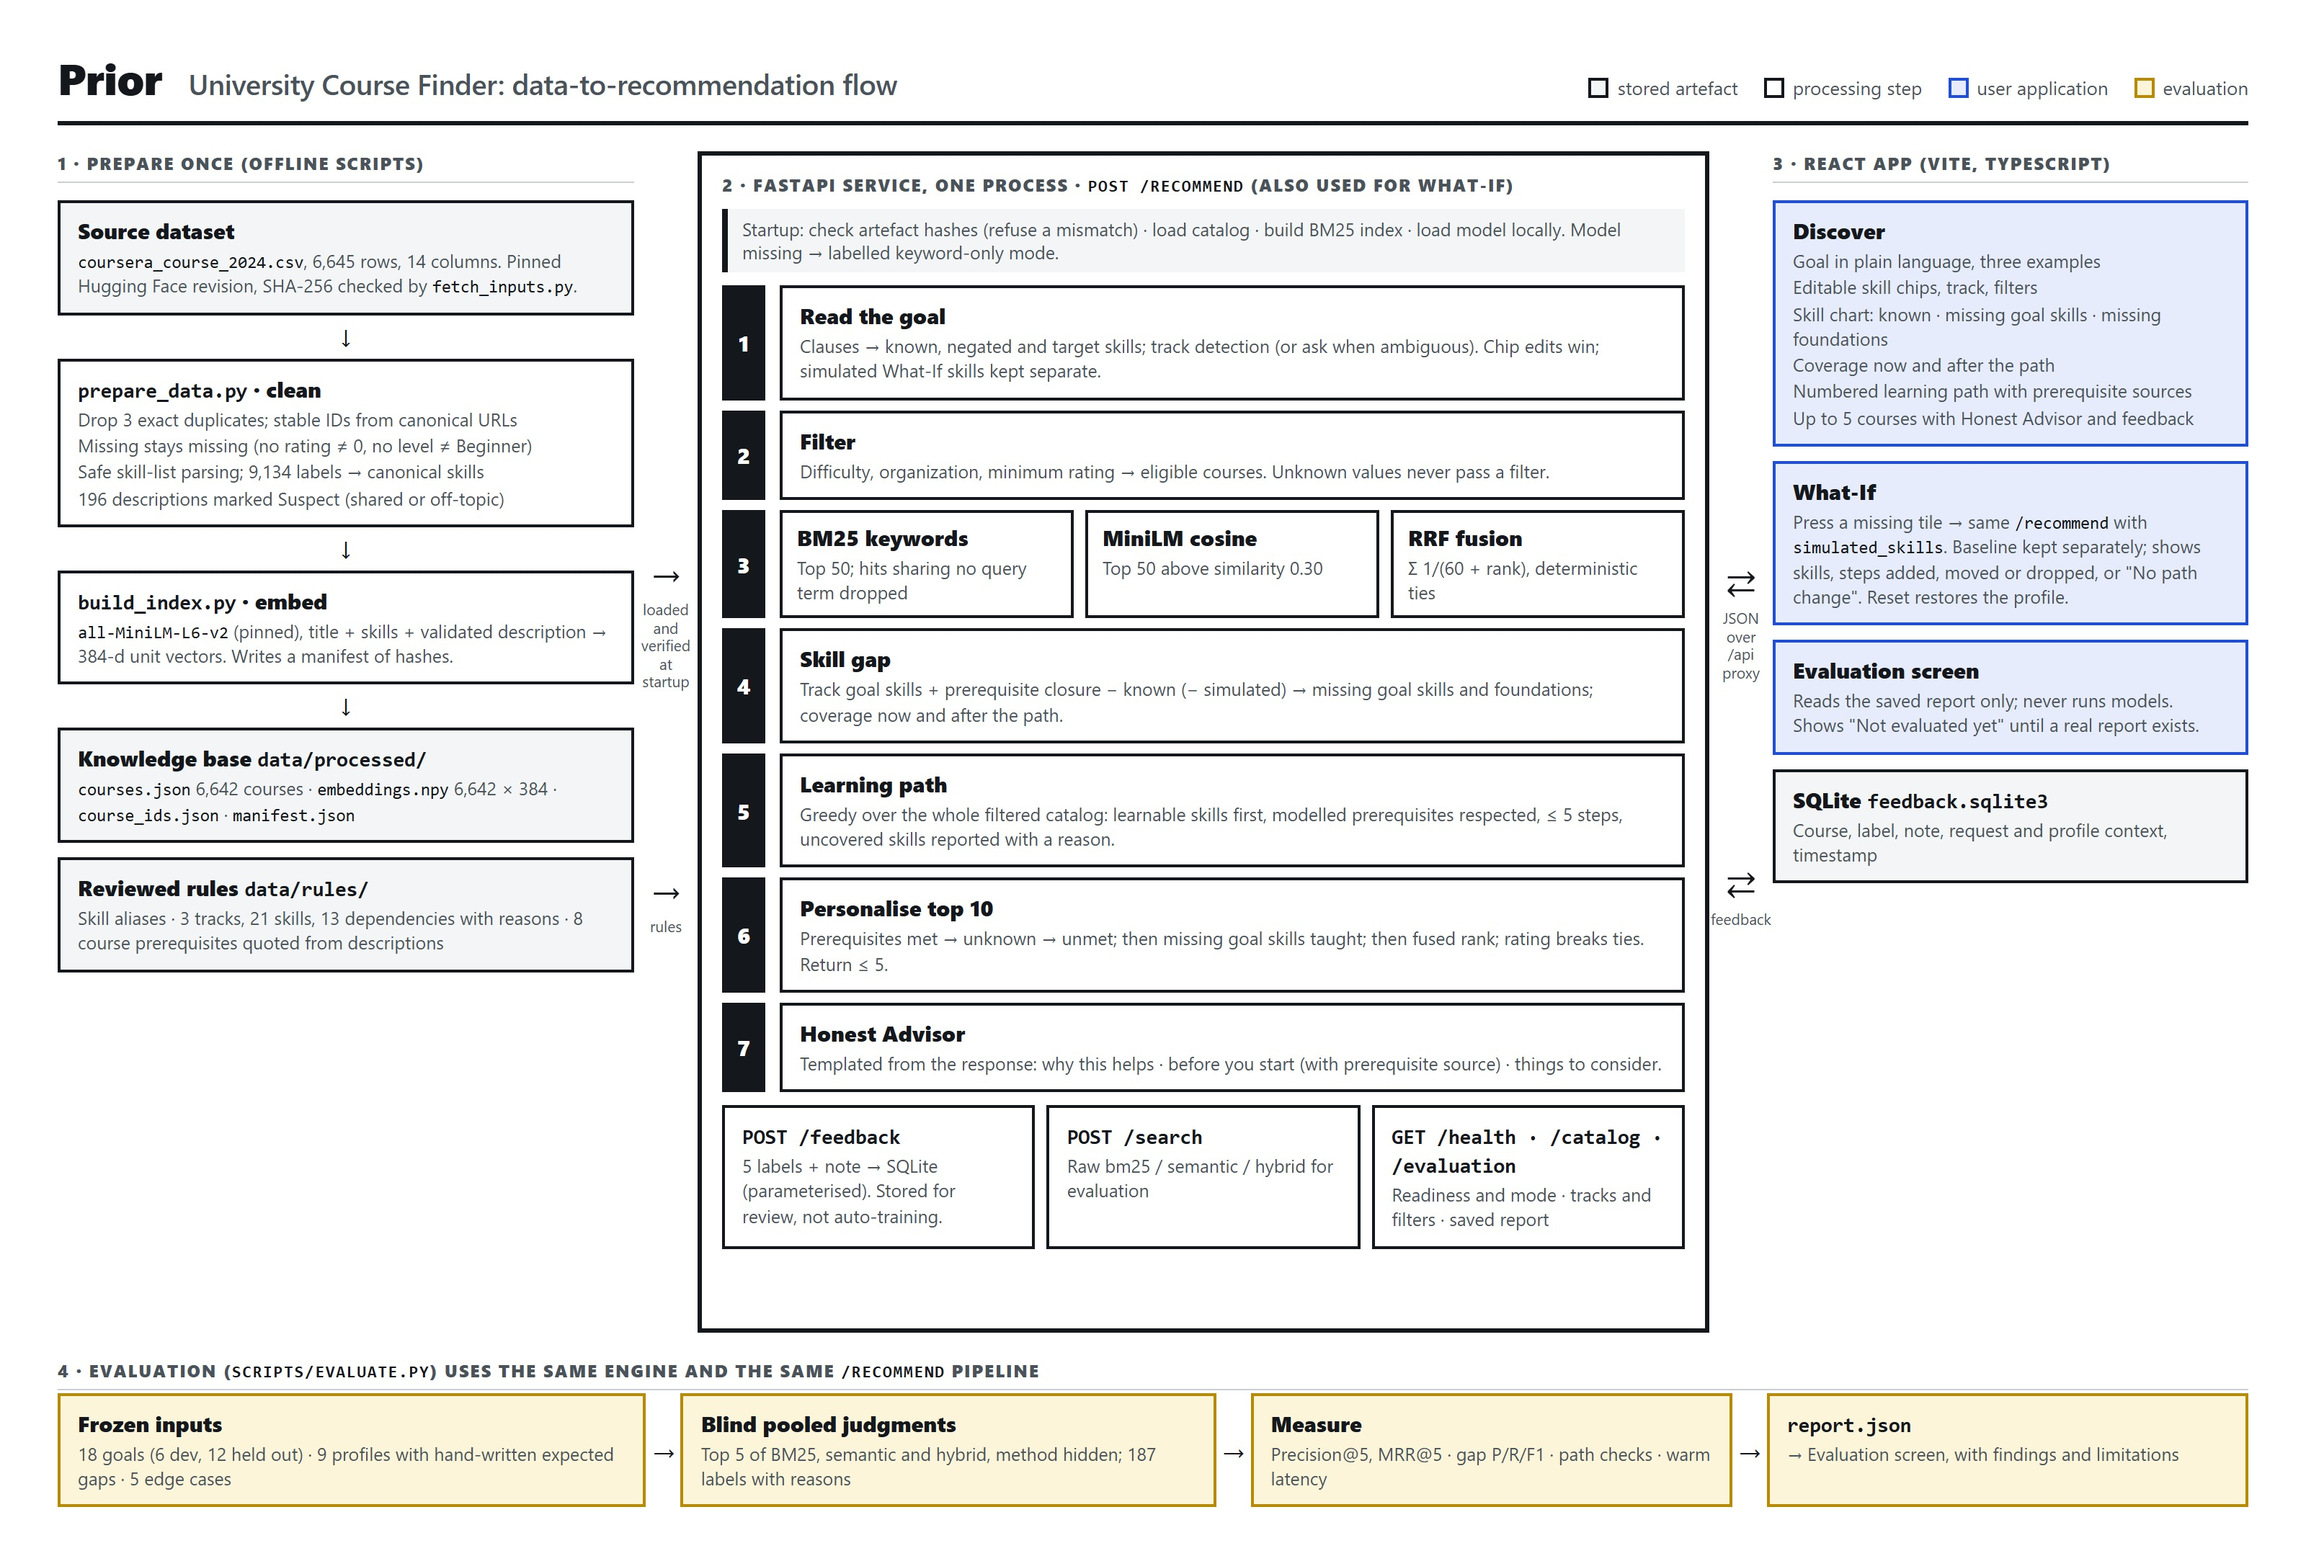
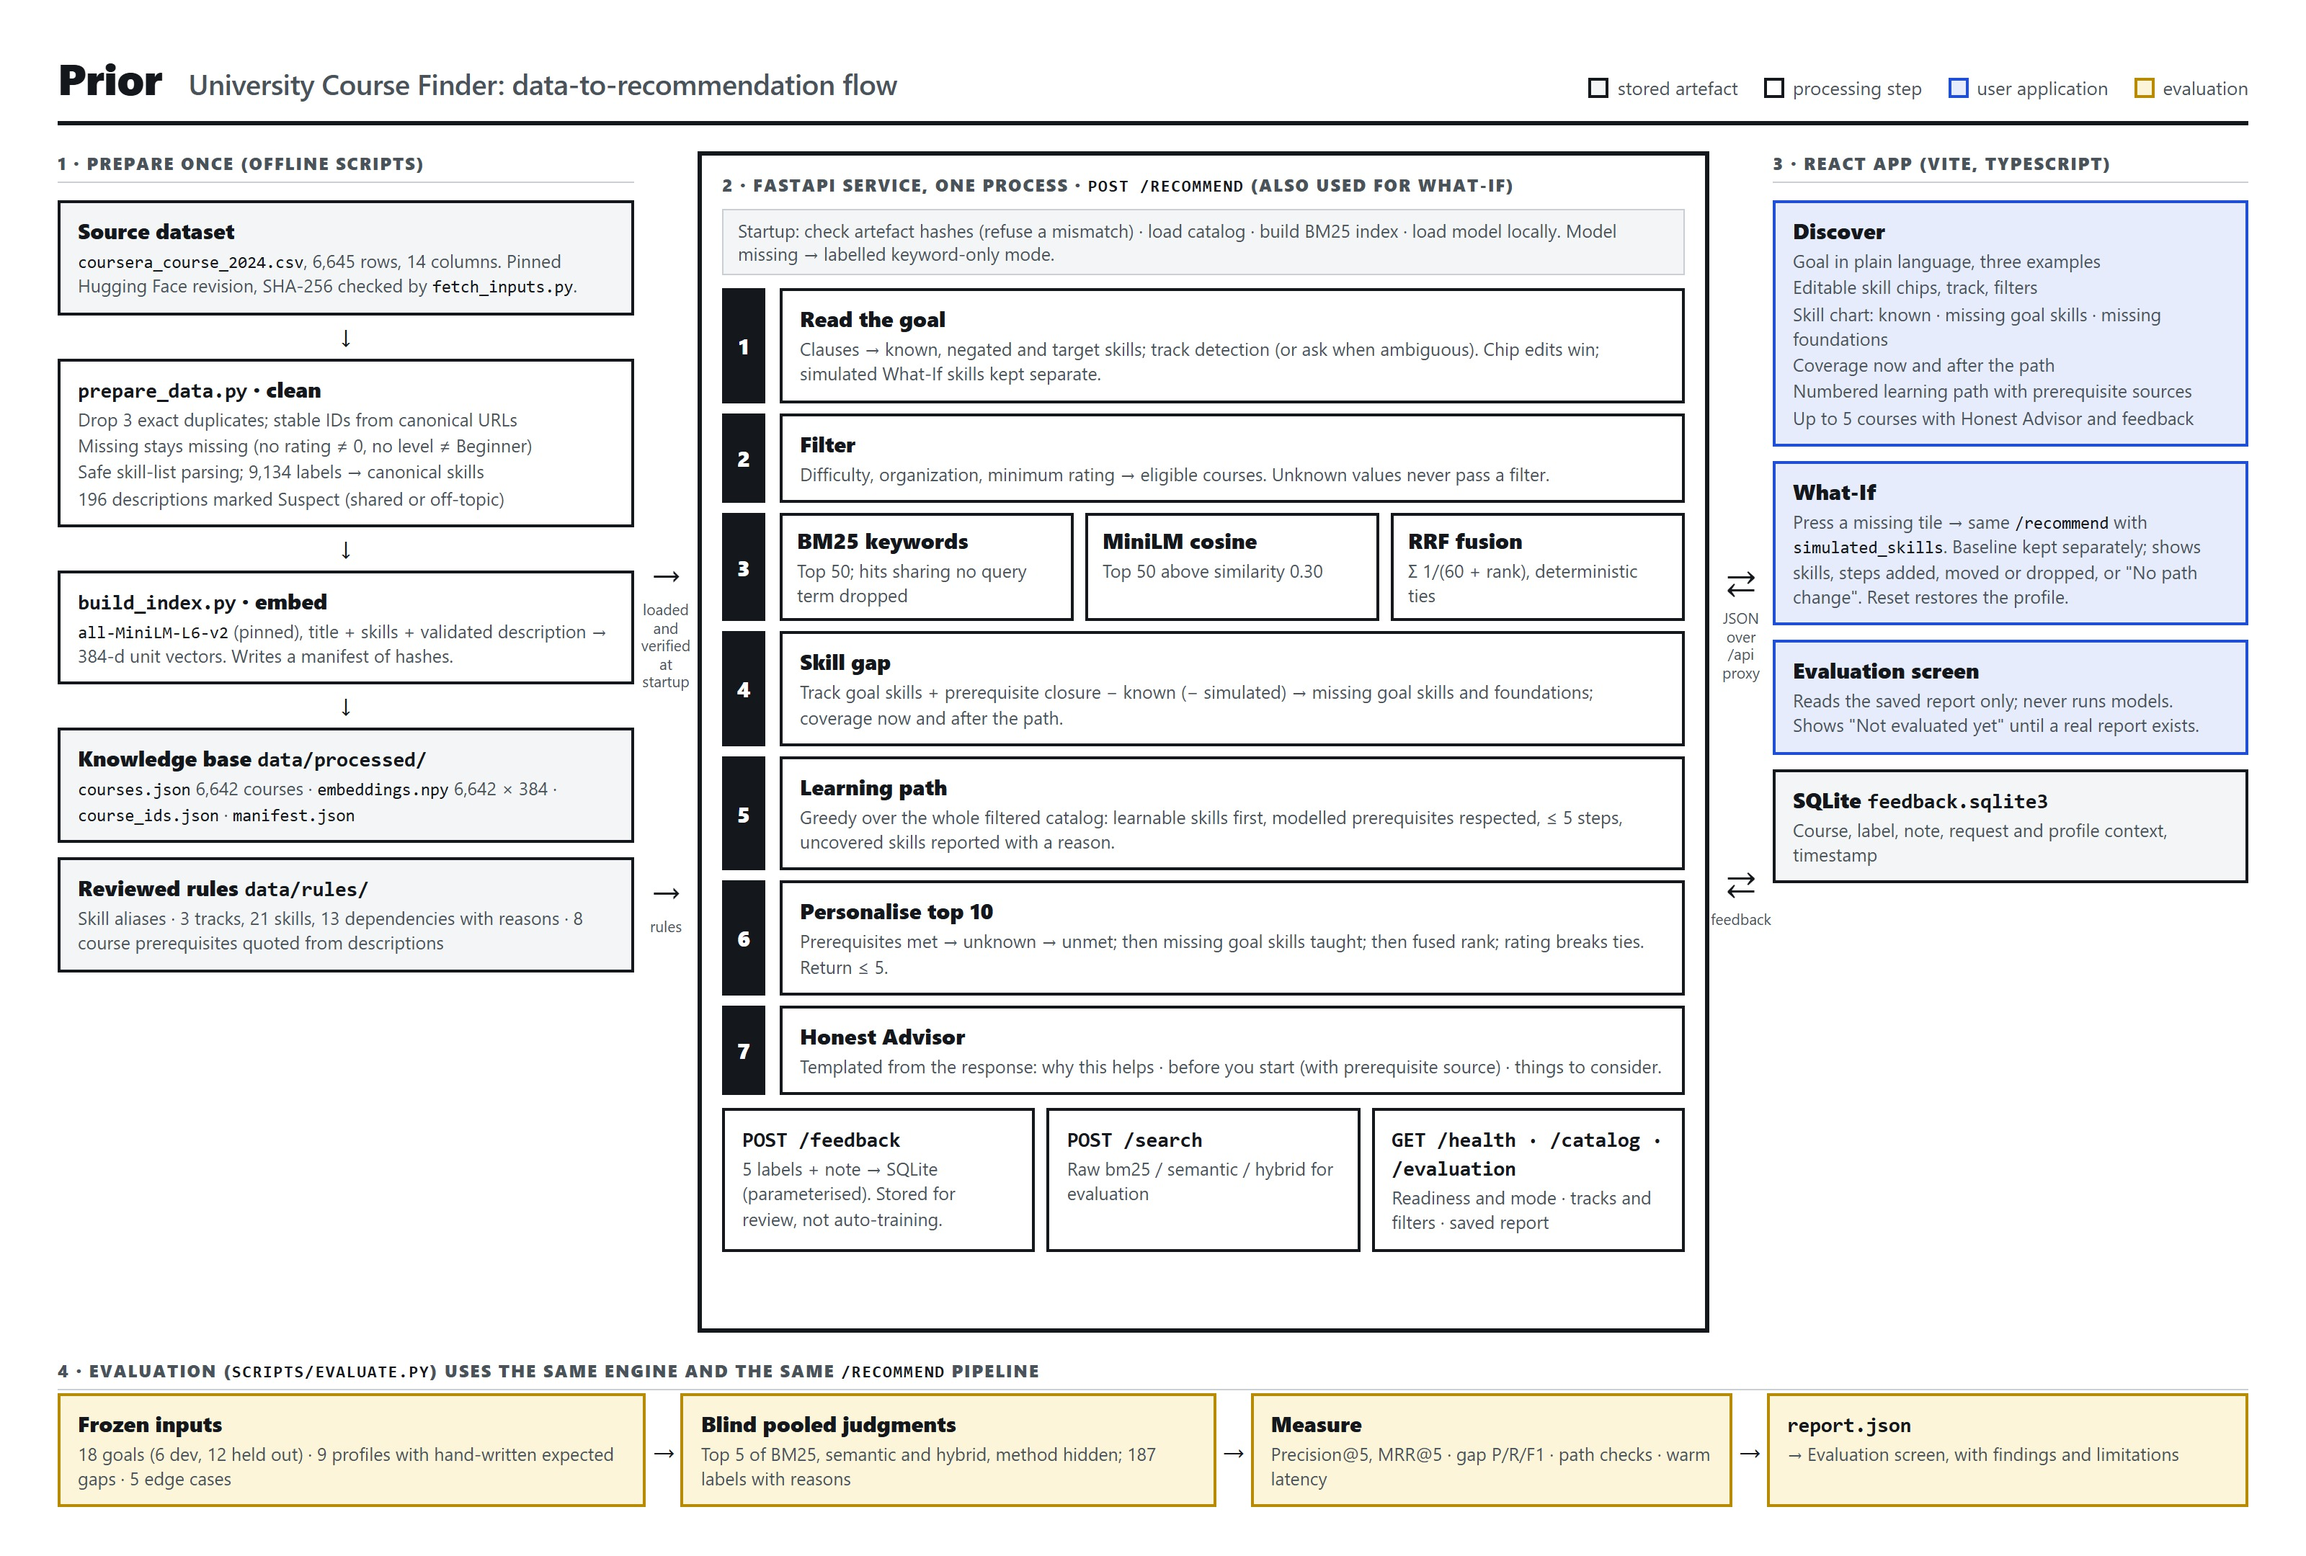
Architecture diagram: plain border on the startup note
Replace the thick left accent stripe with a thin full border, matching
the other boxes, and re-render the PDF and JPEG.

Changed region(s): [[0.3125, 0.1241, 0.7188, 0.8065]]

diff --git a/docs/architecture.html b/docs/architecture.html
@@ -36,7 +36,7 @@
 
   .service { border: 3px solid var(--ink); padding: 12px 14px 14px; display: flex; flex-direction: column; gap: 9px; }
   .service > .lane { border: 0; margin: 0; padding: 0; }
-  .startup { font-size: 12.5px; color: var(--ink2); background: var(--panel); border-left: 4px solid var(--ink); padding: 6px 10px; }
+  .startup { font-size: 12.5px; color: var(--ink2); background: var(--panel); border: 1px solid var(--hair); padding: 6px 10px; }
   .pipe { display: grid; grid-template-columns: 30px 1fr; gap: 7px 10px; align-items: stretch; }
   .n { background: var(--ink); color: var(--paper); font-weight: 800; font-size: 15px; display: grid; place-items: center; }
   .retrieve { display: grid; grid-template-columns: 1fr 1fr 1fr; gap: 8px; }
